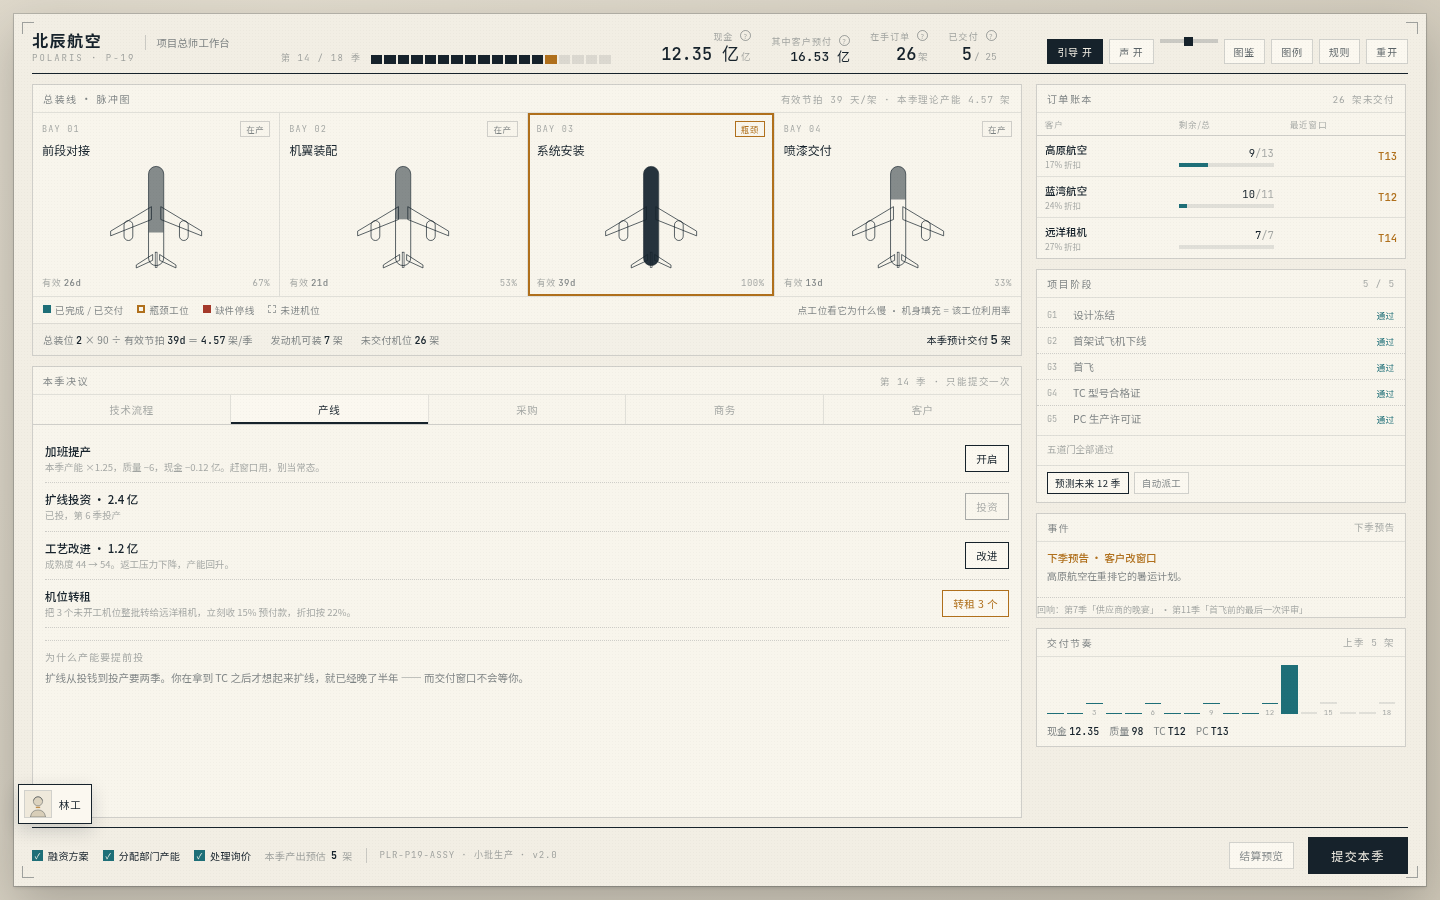
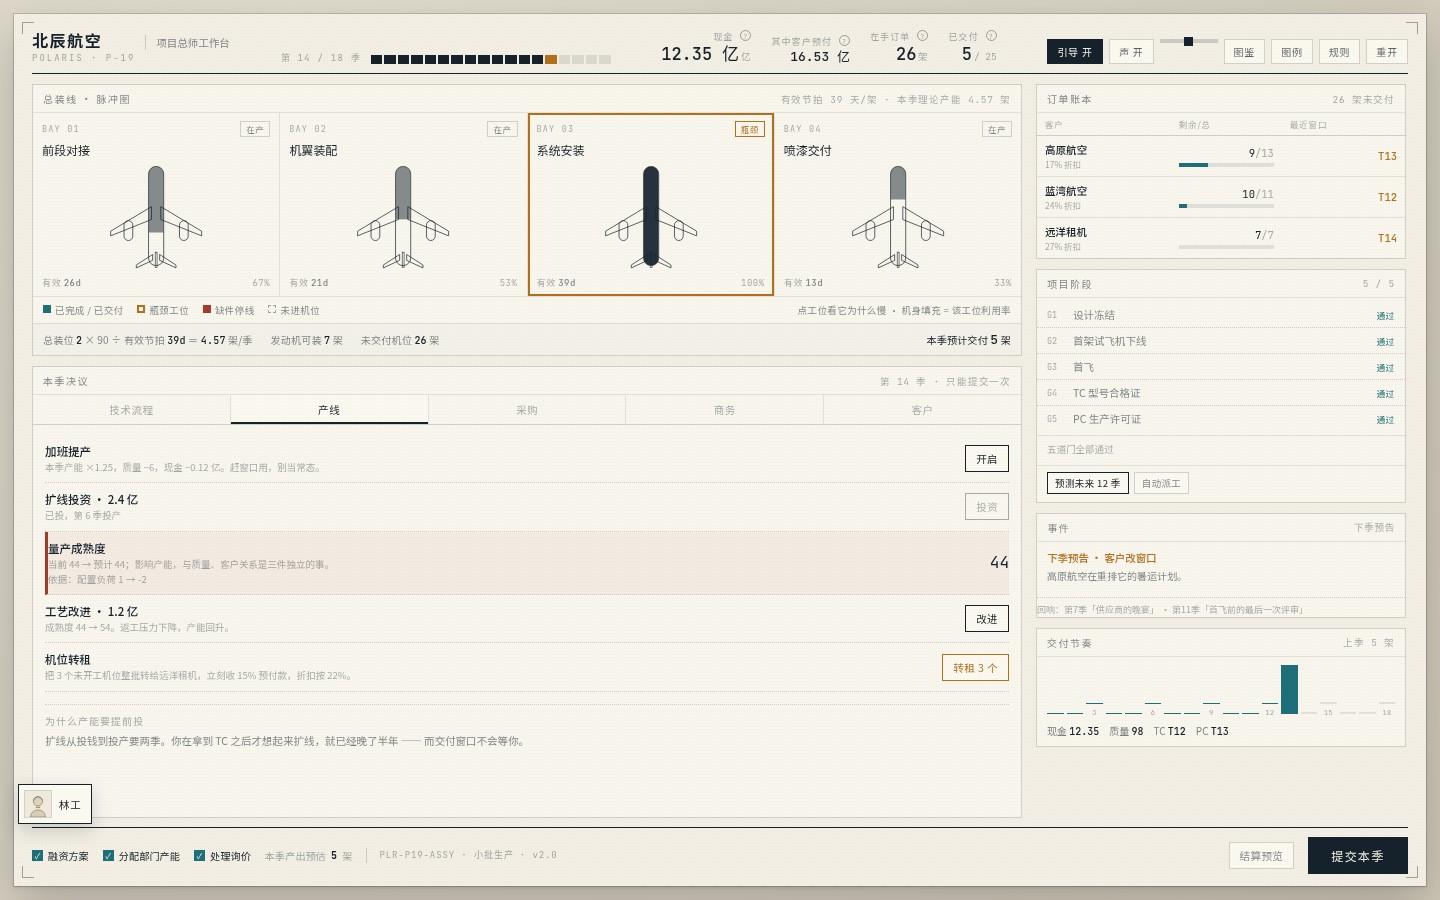
feat(aircraft-manufacturer): Phase 2.5 成熟度可理解性与可达性
- 风险投影 maturityRisk()：PC 前只算不生效，展示加班/配置负荷/质量三条来源
- 产线页新增成熟度行：当前值、预计值、影响产能的解释、来源、风险态左侧红边
- 成熟度改为随决策波动：加班 -5、每单位配置 -2、质量低于 70 按档扣；
  交付沉淀单季封顶 +2；工艺改进同时抬 8 点下限（最多 +25），保证可恢复
- 正常路径可达：接 hl 单 + PC 后连续加班即可进入风险区，并能用工艺改进拉回
- 复盘/账本记录风险与工艺改进；结局账本新增 lateMaturity
- 断言：成熟度与 quality/rel 独立、PC 前不生效且不被侵蚀、正常路径可达并可恢复、
  工艺改进必然抬升、预测不改状态、重开清空

构建哈希 fe8f0d65f44934ac；verify PASS；Pages 构建两游戏均在

Changed region(s): [[0.0312, 0.5911, 0.375, 0.84], [0.6562, 0.6533, 0.6875, 0.7467]]

diff --git a/games/aircraft-manufacturer/engine.js b/games/aircraft-manufacturer/engine.js
@@ -31,13 +31,18 @@
     maturityFloor: 35,
     maturityReworkCap: 0.25,      // 最低成熟度时的产能损失比例
     maturityGainPerQuarter: 2,    // 每季自然回升
-    maturityGainPerDelivery: 1,   // 每交付一架的工艺沉淀
+    maturityGainPerDelivery: 0.5, // 每交付一架的工艺沉淀（单季最多 +2）
     maturityWarnAt: 60,           // 低于此值提前预警
     maturityIssueAt: 50,          // 低于此值开始出现交付检查不合格
     processCost: 1.2,             // 工艺改进花费
     processGain: 10,              // 工艺改进提升
     processCooldown: 2,           // 冷却季数
-    configLoadCap: 0.03,          // 每单配置对产能的额外压力
+    configLoadCap: 0.03,
+    maturityOvertimeCost: 5,      // 每季加班对成熟度的侵蚀
+    maturityConfigCost: 2,        // 每单位配置负荷的侵蚀
+    maturityQualityRef: 70,       // 质量低于此值开始侵蚀
+    maturityRiskAt: 60,           // 进入风险区的阈值
+          // 每单配置对产能的额外压力
 
     reworkFactor: 0.9
   };
@@ -254,6 +259,7 @@
       ledger: [],
       ledgerStartCash: CONFIG.startCash,
       maturity: CONFIG.maturityStart,
+      maturityFloorBoost: 0,
       processCooldown: 0,
       configLoad: 0,
       feedback: [],
@@ -804,7 +810,7 @@
       why: r.deliveredTotal ? '累计交付 ' + r.deliveredTotal + ' 架' : '尚未开始交付', src: 'slots / deliveredTotal' });
     if (s.pc) {
       items.push({ k: '量产成熟度', v: String(s.maturity),
-        why: s.maturity < CONFIG.maturityWarnAt ? '返工压力偏大，考虑工艺改进' : '产线状态稳定',
+        why: s.maturity < CONFIG.maturityRiskAt ? '已进入风险区：加班/配置负荷/质量在侵蚀产线' : s.maturity < CONFIG.maturityWarnAt ? '返工压力偏大，考虑工艺改进' : '产线状态稳定',
         src: 'maturity' });
     }
     const g = nextGate(s);
@@ -830,8 +836,9 @@
       const o = OFFERS.filter(function (x) { return x.id === id; })[0];
       if (o) acts.push('接单 ' + o.cust + ' ' + o.qty + ' 架');
     });
-    if (p.overtime) acts.push('加班提产');
+    if (p.overtime) acts.push('加班提产（成熟度 -' + CONFIG.maturityOvertimeCost + '）');
     if (p.process) acts.push('工艺改进');
+    if (s.pc && s.maturity < CONFIG.maturityRiskAt && (s.pending.process || true)) { /* 由外层记录 */ }
     if (storyPick && s.story) acts.push('抉择「' + s.story.title + '」');
     if (acts.length) s.ledger.push({ turn: t, acts: acts.slice(0, 3) });
   }
@@ -857,10 +864,37 @@
       seed: s.seed,
       best: best ? '第 ' + best.turn + ' 季（现金变动 ' + best.d.toFixed(2) + ' 亿）' : '—',
       costly: costly ? '第 ' + costly.turn + ' 季（现金变动 ' + costly.d.toFixed(2) + ' 亿）' : '—',
+      lateMaturity: (function () {
+        const hit = s.log.filter(function (r) { return s.pc && r.turn >= s.pc; });
+        return hit.length && s.maturity < CONFIG.maturityRiskAt ? '结项时仍在风险区（' + s.maturity + '）' : '未进入风险区';
+      })(),
       lateGate: Object.keys(gateTurn).length ? Object.keys(gateTurn).sort(function (a, b) { return gateTurn[b] - gateTurn[a]; })[0] + '（第 ' + gateTurn[Object.keys(gateTurn).sort(function (a, b) { return gateTurn[b] - gateTurn[a]; })[0]] + ' 季完成）' : '—',
       echoes: s.echoes.map(function (e) { return '第' + e.turn + '季「' + e.title + '」'; }),
       decisions: flat.slice(0, 8),
       events: Object.keys(s.schedule).map(function (k) { return 'T' + k + ' ' + (eventById(s.schedule[k]) || {}).title; })
+    };
+  }
+
+  /* Phase 2.5：成熟度风险投影（只读，PC 前也可用） */
+  function maturityRisk(s) {
+    const reasons = [];
+    let score = s.maturity != null ? s.maturity : CONFIG.maturityStart;
+    if (s.pending && s.pending.overtime) { score -= CONFIG.maturityOvertimeCost; reasons.push('本季加班 -' + CONFIG.maturityOvertimeCost); }
+    if (s.configLoad > 0) { score -= s.configLoad * CONFIG.maturityConfigCost; reasons.push('配置负荷 ' + s.configLoad + ' → -' + (s.configLoad * CONFIG.maturityConfigCost)); }
+    if (s.quality < CONFIG.maturityQualityRef) {
+      const d = Math.ceil((CONFIG.maturityQualityRef - s.quality) / 10);
+      score -= d; reasons.push('质量 ' + s.quality + ' 低于 ' + CONFIG.maturityQualityRef + ' → -' + d);
+    }
+    const projected = Math.max(CONFIG.maturityFloor, Math.min(100, score + CONFIG.maturityGainPerQuarter));
+    return {
+      current: s.maturity,
+      projected: projected,
+      level: projected < CONFIG.maturityRiskAt ? 'risk' : 'ok',
+      reasons: reasons,
+      active: !!s.pc,
+      fixCost: CONFIG.processCost,
+      fixGain: CONFIG.processGain,
+      cooldown: s.processCooldown || 0
     };
   }
 
@@ -940,6 +974,7 @@
     if (p.process) {
       s.cash -= CONFIG.processCost;
       s.maturity = Math.min(100, s.maturity + CONFIG.processGain);
+      s.maturityFloorBoost = Math.min(25, (s.maturityFloorBoost || 0) + 8);
       s.processCooldown = t + CONFIG.processCooldown;
       r.lines.push({ k: '工艺改进（成熟度 +' + CONFIG.processGain + '）', v: -CONFIG.processCost });
       r.notes.push('工艺改进落地：成熟度升到 ' + s.maturity + '，返工压力下降。');
@@ -1136,9 +1171,17 @@
         deliver -= 1;
         r.notes.push('交付检查不合格 1 架：成熟度 ' + s.maturity + ' 低于 ' + CONFIG.maturityIssueAt + '，返工后重检。');
       }
-      s.maturity = Math.min(100, s.maturity + CONFIG.maturityGainPerDelivery * deliver);
+      s.maturity = Math.min(100, s.maturity + Math.min(2, CONFIG.maturityGainPerDelivery * deliver));
     }
-    if (s.pc) s.maturity = Math.min(100, s.maturity + CONFIG.maturityGainPerQuarter);
+    if (s.pc) {
+      let delta = CONFIG.maturityGainPerQuarter;
+      if (p.overtime) delta -= CONFIG.maturityOvertimeCost;
+      delta -= (s.configLoad || 0) * CONFIG.maturityConfigCost;
+      if (s.quality < CONFIG.maturityQualityRef) delta -= Math.ceil((CONFIG.maturityQualityRef - s.quality) / 10);
+      const floorNow = Math.max(CONFIG.maturityFloor, s.maturityFloorBoost || 0);
+      s.maturity = Math.max(floorNow, Math.min(100, s.maturity + delta));
+      if (delta < 0) r.notes.push('产线压力侵蚀成熟度 ' + Math.abs(delta) + ' 点（加班/配置负荷/质量）。');
+    }
 
     if (deliver > 0) {
       s.engines -= deliver * 2;
@@ -1242,7 +1285,7 @@
   const api = {
     CONFIG_TPL: CONFIG_TPL,
     CONFIG: CONFIG, DEPTS: DEPTS, WORKS: WORKS, GATES: GATES, OFFERS: OFFERS, EVENT_POOL: EVENT_POOL, BEATS: BEATS, needOf: needOf,
-    ROCKET: ROCKET, rocketCalc: rocketCalc, requestProcess: requestProcess, assistEvidence: assistEvidence, rocketBreakEven: rocketBreakEven, previewDelta: previewDelta, buildReview: buildReview, ledgerSummary: ledgerSummary, clearPending: clearPending, ASSIST: ASSIST, nextAssistStep: nextAssistStep, assistReady: assistReady,
+    maturityRisk: maturityRisk, ROCKET: ROCKET, rocketCalc: rocketCalc, requestProcess: requestProcess, assistEvidence: assistEvidence, rocketBreakEven: rocketBreakEven, previewDelta: previewDelta, buildReview: buildReview, ledgerSummary: ledgerSummary, clearPending: clearPending, ASSIST: ASSIST, nextAssistStep: nextAssistStep, assistReady: assistReady,
     newGame: newGame, applyTurnStart: applyTurnStart,
     capacity: capacity, effectiveCycle: effectiveCycle, unitCost: unitCost,
     slotPrice: slotPrice, slotPrice2: slotPrice2,

diff --git a/games/aircraft-manufacturer/ui.js b/games/aircraft-manufacturer/ui.js
@@ -629,6 +629,16 @@
           <div class="lbl"><b>扩线投资 · 2.4 亿</b><span>${expandTxt}</span></div>
           <button class="btn ${S.pending.expand ? 'on' : ''}" data-act="expand" ${canExp || S.pending.expand ? '' : 'disabled'}>${S.pending.expand ? '已下单' : '投资'}</button>
         </div>
+        ${(function () {
+          const mr = E.maturityRisk(S);
+          const lvl = mr.level === 'risk' ? 'risk' : 'ok';
+          return `<div class="row matrow ${lvl}">
+            <div class="lbl"><b>量产成熟度 ${S.pc ? '' : '（PC 后生效）'}</b>
+            <span>${S.pc ? '当前 ' + S.maturity + ' → 预计 ' + mr.projected + '；影响产能，与质量、客户关系是三件独立的事。' : '现在不影响结算；PC 之后按加班、配置负荷、质量折算产能。'}</span>
+            <span class="msrc">依据：${mr.reasons.length ? mr.reasons.join(' · ') : '本季无侵蚀项'}</span></div>
+            <div class="mono matv">${S.pc ? S.maturity : '—'}</div>
+          </div>`;
+        })()}
         ${S.pc ? `<div class="row">
           <div class="lbl"><b>工艺改进 · ${C.processCost} 亿</b><span>成熟度 ${S.maturity} → ${Math.min(100, S.maturity + C.processGain)}${S.processCooldown > S.turn ? '（第 ' + S.processCooldown + ' 季后可再做）' : ''}。返工压力下降，产能回升。</span></div>
           <button class="btn ${S.pending.process ? 'on' : ''}" data-act="process" ${S.processCooldown > S.turn || S.cash < C.processCost ? 'disabled' : ''}>${S.pending.process ? '已下单' : '改进'}</button>

diff --git a/games/aircraft-manufacturer/game.css b/games/aircraft-manufacturer/game.css
@@ -503,3 +503,7 @@ button.ti:hover{color:var(--ink);text-decoration:underline}
 .cfgtag{margin-top:5px;font-size:9px;padding:2px 6px;border-left:2px solid var(--amber);background:rgba(176,112,28,.06);color:var(--amber)}
 .fb{border-left:2px solid var(--teal);background:rgba(30,111,120,.05);padding:5px 8px;margin-bottom:5px;font-size:10px;line-height:1.55}
 .fb b{display:block;font-size:10px;margin-bottom:2px}
+/* Phase 2.5 */
+.matrow.risk{border-left:3px solid var(--red);background:rgba(165,57,42,.05)}
+.matrow .matv{font-size:16px}
+.matrow .msrc{color:var(--ink-40);font-size:9px;letter-spacing:.02em;display:block;margin-top:2px}
